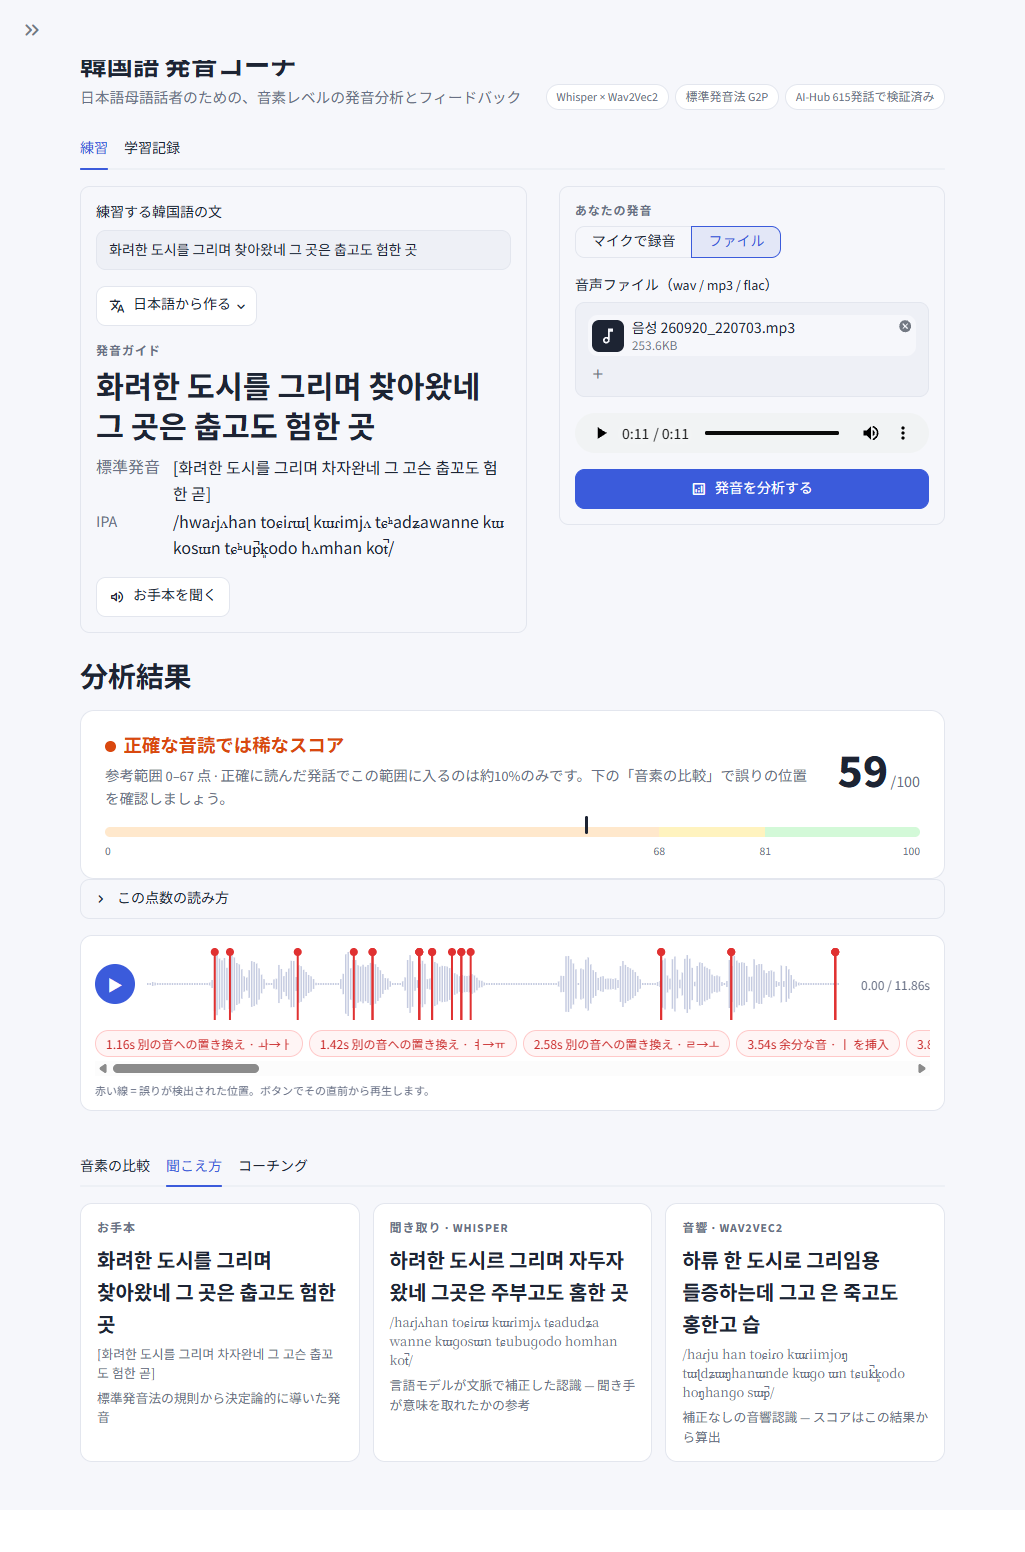
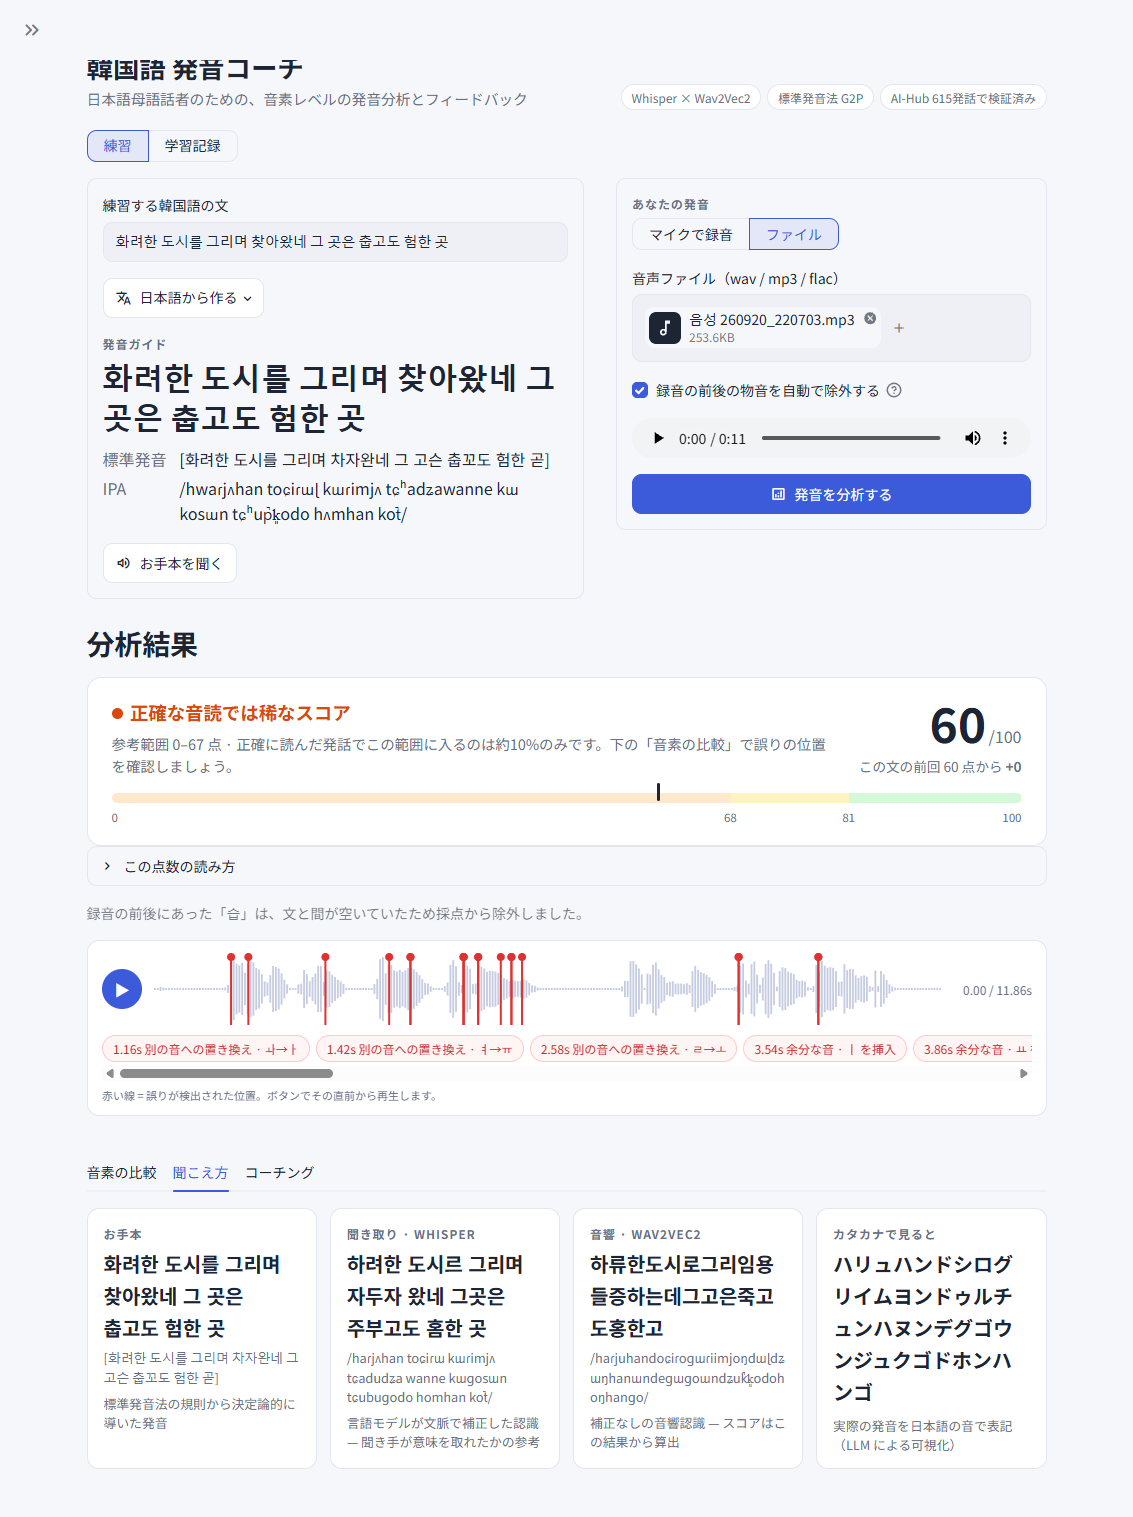
docs: replace demo screenshots with a full run of sentence 8
Captures from the current build (readable CJK title, coaching without
tag ids): score band with waveform markers and the jamo diff, the ASR
channel comparison including the katakana card, and the coaching tab.
The sentence carries liaison+nasalisation, tensification and coda
neutralisation, so the standard-pronunciation guide is doing visible work.

diff --git a/README_jp.md b/README_jp.md
@@ -181,11 +181,19 @@ streamlit run app.py
 4. 結果を確認 — 参考範囲とスコア（同じ文の前回からの変化を含む）、誤りの位置を赤いマーカーで示す波形プレーヤー（Wav2Vec2-CTCタイムスタンプ、クリックでその位置を再生）、そして音節単位の字母比較・誤り一覧 / Whisper・Wav2Vec2・カタカナの比較 / LLMコーチングのタブ
 5. 「学習記録」タブでスコアの推移と繰り返し出る誤り（弱点プロファイル）を確認し、過去の分析を結果画面に呼び戻せます — 録音は直近50件まで保存され、波形とマーカーの再生もそのまま再現されます
 
+日本語母語話者が *화려한 도시를 그리며 찾아왔네 그 곳은 춥고도 험한 곳* を読んだ例です。22音節の中に連音・鼻音化（찾아왔네 → [차자완네]）、濃音化（춥고도 → [춥꼬도]）、終声の中和（곳 → [곧]）が含まれます。
+
 ![スコア・波形マーカー・字母比較](docs/assets/demo_phoneme_diff.png)
 
-*スコアは実験6の参考範囲の上に示され、波形のマーカーは検出された誤りの位置を再生し、字母比較は不一致ごとに名前を付けます。下は同じ分析をASRチャネルで見た画面です — 目標文、言語モデルが補正して聞き取ったWhisperの認識、そしてスコア算出に使う補正なしの音響認識です。*
+*スコアは実験6の参考範囲の上に置かれ、赤いマーカーはCTCタイムスタンプから各誤りの位置を再生し、音節単位でまとめた字母比較が不一致ごとに名前を付けます。*
 
 ![ASRチャネルの対照](docs/assets/demo_channels.png)
+
+*同じ発話をチャネルで見た画面 — 目標文、言語モデルが補正して聞き取ったWhisperの認識、スコア算出に使う補正なしの音響認識、そして学習者の発音をカタカナに戻した表記です。*
+
+![コーチング](docs/assets/demo_coaching.png)
+
+*LLMはこの根拠を解釈するだけです — 誤りを日本語名で呼び、口の使い方を示しますが、スコアを計算し直すことはありません。*
 
 ## テスト
 

diff --git a/README_kr.md b/README_kr.md
@@ -181,11 +181,19 @@ streamlit run app.py
 4. 결과 확인 — 참고 구간과 점수(같은 문장 직전 시도 대비 변화 포함), 오류 위치가 빨간 마커로 표시된 파형 플레이어(Wav2Vec2-CTC 타임스탬프, 클릭 시 해당 위치 재생), 그리고 음절 단위 자모 비교·오류 목록 / Whisper·Wav2Vec2·가타카나 비교 / LLM 코칭 탭
 5. 「学習記録」 탭에서 점수 추이와 반복되는 오류(약점 프로파일)를 확인하고, 지난 분석을 결과 화면으로 다시 열 수 있습니다 — 녹음은 최근 50건까지 보관되어 파형·마커 재생도 그대로 재현됩니다
 
+일본인 학습자가 *화려한 도시를 그리며 찾아왔네 그 곳은 춥고도 험한 곳*을 읽은 결과입니다. 22음절 안에 연음·비음화(찾아왔네 → [차자완네]), 경음화(춥고도 → [춥꼬도]), 종성 중화(곳 → [곧])가 들어 있습니다.
+
 ![점수·파형 마커·자모 비교](docs/assets/demo_phoneme_diff.png)
 
-*점수는 실험 6의 참고 구간 위에 표시되고, 파형의 마커는 검출된 오류 지점을 재생하며, 자모 비교는 불일치마다 이름을 붙입니다. 아래는 같은 분석을 ASR 채널로 본 화면입니다 — 목표 문장, 언어 모델이 보정해 들은 Whisper의 인식, 그리고 점수 계산에 쓰이는 보정 없는 음향 인식입니다.*
+*점수는 실험 6의 참고 구간 위에 놓이고, 빨간 마커는 CTC 타임스탬프로 각 오류 지점을 재생하며, 음절 단위로 묶인 자모 비교가 불일치마다 이름을 붙입니다.*
 
 ![ASR 채널 대조](docs/assets/demo_channels.png)
+
+*같은 발화를 채널로 본 화면입니다 — 목표 문장, 언어 모델이 보정해 들은 Whisper의 인식, 점수 계산에 쓰이는 보정 없는 음향 인식, 그리고 학습자의 발음을 가타카나로 되돌린 표기입니다.*
+
+![코칭](docs/assets/demo_coaching.png)
+
+*LLM은 이 근거를 해석하기만 합니다 — 오류를 일본어 명칭으로 부르고 입 모양을 지시할 뿐, 점수를 다시 계산하지 않습니다.*
 
 ## 테스트
 

diff --git a/README.md b/README.md
@@ -197,11 +197,19 @@ streamlit run app.py
 4. Read the result: the reference band and score with the change since your last attempt at the same sentence; a waveform player whose red markers (Wav2Vec2-CTC timestamps) replay each detected error; then tabs for the syllable-grouped jamo diff with named errors, the Whisper / Wav2Vec2 / katakana comparison, and the LLM coaching.
 5. The 学習記録 tab charts your scores, aggregates recurring errors into a weak-point profile, and reopens any past attempt in the result view — with its recording, kept for the 50 most recent attempts.
 
+A Japanese learner reading *화려한 도시를 그리며 찾아왔네 그 곳은 춥고도 험한 곳* — 22 syllables carrying liaison and nasalisation (찾아왔네 → [차자완네]), tensification (춥고도 → [춥꼬도]) and coda neutralisation (곳 → [곧]).
+
 ![Score, waveform markers and the jamo diff](docs/assets/demo_phoneme_diff.png)
 
-*The score is placed in the Experiment 6 reference band, the waveform markers replay each detected error, and the jamo diff names every mismatch. Below: the same analysis seen as ASR channels — the target, what Whisper heard with its language model, and the raw acoustic reading the score is computed from.*
+*The score sits in the Experiment 6 reference band, the red markers replay each detected error from its CTC timestamp, and the syllable-grouped jamo diff names every mismatch.*
 
 ![ASR channel comparison](docs/assets/demo_channels.png)
+
+*The same take as channels: the target, what Whisper heard with its language model, the raw acoustic reading the score is computed from, and the learner's output written back as katakana.*
+
+![Coaching](docs/assets/demo_coaching.png)
+
+*The LLM only interprets that evidence — it names the error in Japanese and says what to do with the mouth, and never recomputes the score.*
 
 ## Testing
 
